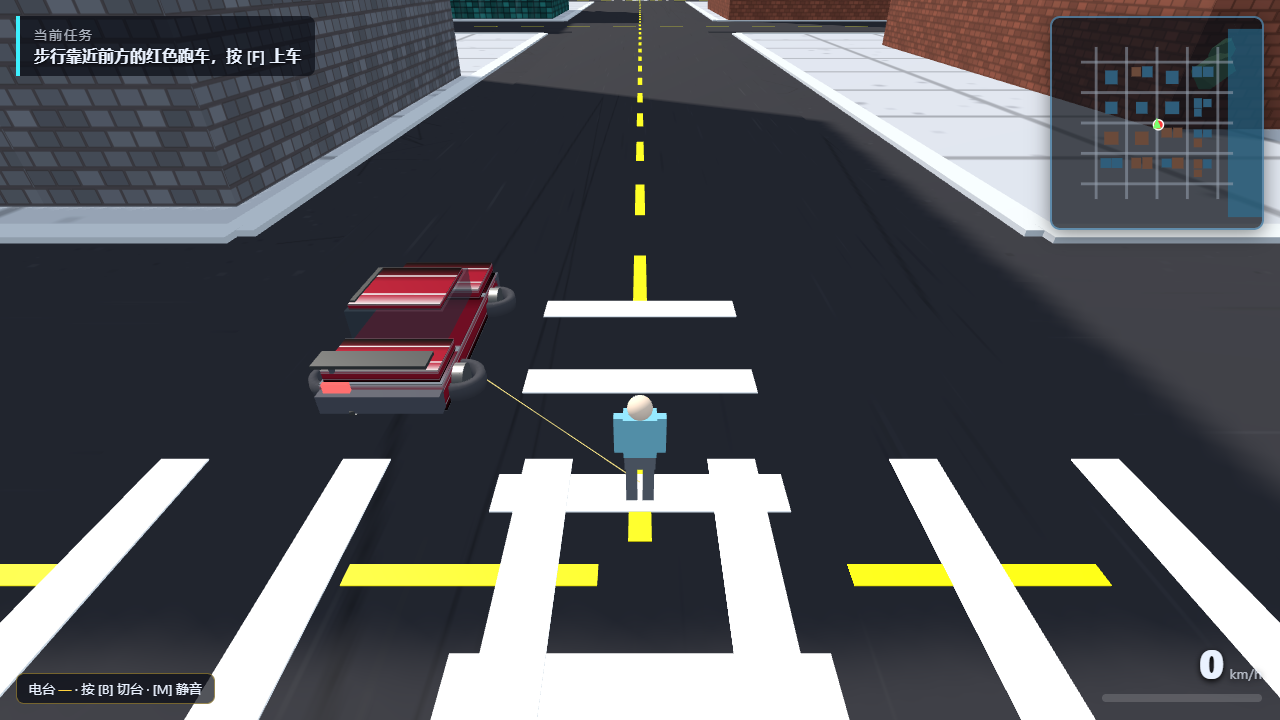
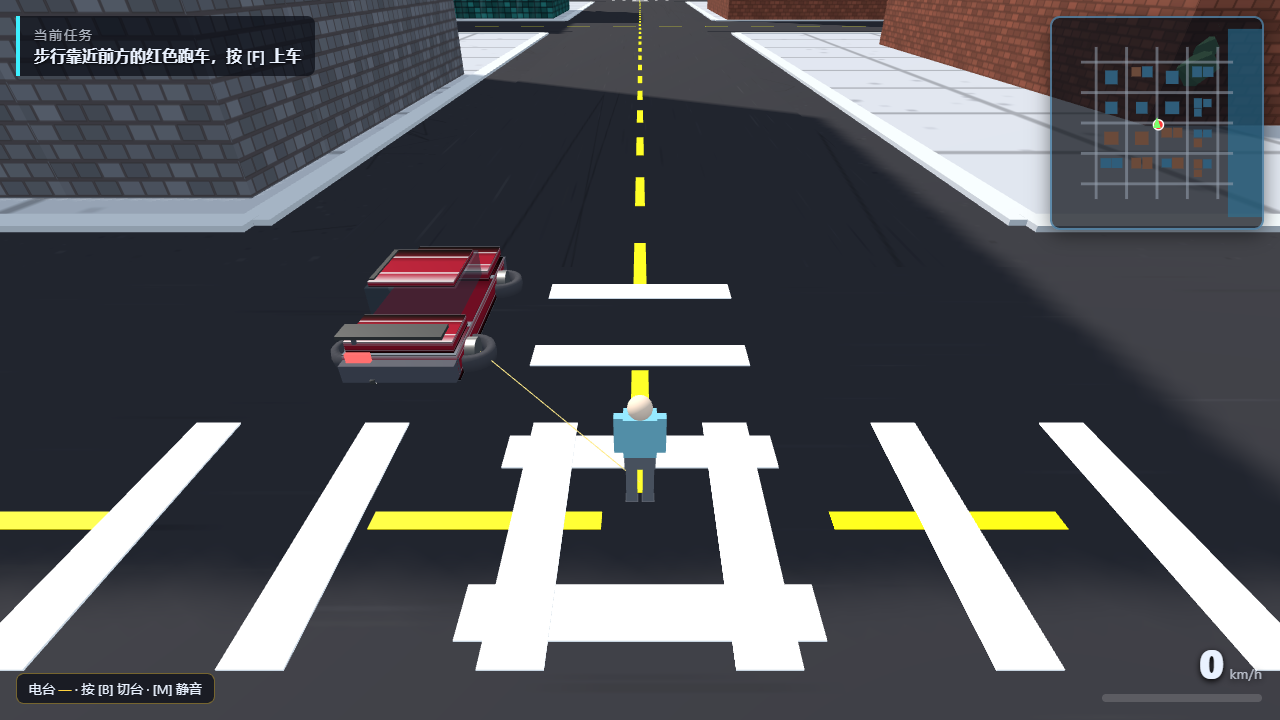
feat: 移动端触控支持（虚拟摇杆/按钮/视角拖拽 + 手机降分辨率）

diff --git a/src/input.js b/src/input.js
@@ -1,8 +1,9 @@
 /* ============================================================
-   Input : 键盘 + 鼠标（拖拽自由看视角，带衰减回正）
+   Input : 键盘 + 鼠标 + 触摸（移动端虚拟摇杆 / 按钮 / 视角拖拽）
    ============================================================ */
 window.Input = (function () {
   const keys = {};
+  const touchState = {};      // 触摸模拟按键（摇杆 / 按钮）
   const edge = {};            // 单次触发
   const mouse = { down: false, dx: 0, dy: 0, x: 0, y: 0 };
 
@@ -14,22 +15,77 @@ window.Input = (function () {
   });
   window.addEventListener('keyup', (e) => { keys[e.code] = false; });
 
-  const canvas = () => document.getElementById('game');
   window.addEventListener('mousedown', (e) => { mouse.down = true; mouse.x = e.clientX; mouse.y = e.clientY; });
   window.addEventListener('mouseup', () => { mouse.down = false; });
   window.addEventListener('mousemove', (e) => {
     if (mouse.down) { mouse.dx += e.clientX - mouse.x; mouse.dy += e.clientY - mouse.y; mouse.x = e.clientX; mouse.y = e.clientY; }
   });
-  // 触屏简易支持
-  window.addEventListener('touchstart', () => { mouse.down = true; }, { passive: true });
-  window.addEventListener('touchend', () => { mouse.down = false; });
+
+  // ============ 触摸 / 移动端控制 ============
+  const touch = { stickId: null, ox: 0, oy: 0, camId: null, cx: 0, cy: 0 };
+  const STICK_R = 56, STICK_DEAD = 14;
+  let stickBase = null, stickKnob = null;
+  function refreshStickUI(dx, dy) { if (stickKnob) stickKnob.style.transform = 'translate(' + dx + 'px,' + dy + 'px)'; }
+  function applyStick(x, y) {
+    let dx = x - touch.ox, dy = y - touch.oy;
+    const len = Math.hypot(dx, dy);
+    if (len > STICK_R) { dx = dx / len * STICK_R; dy = dy / len * STICK_R; }
+    refreshStickUI(dx, dy);
+    const s = touchState;
+    s.KeyW = s.ArrowUp = dy < -STICK_DEAD;
+    s.KeyS = s.ArrowDown = dy > STICK_DEAD;
+    s.KeyA = s.ArrowLeft = dx < -STICK_DEAD;
+    s.KeyD = s.ArrowRight = dx > STICK_DEAD;
+  }
+  function clearStick() {
+    touch.stickId = null;
+    const s = touchState;
+    s.KeyW = s.ArrowUp = s.KeyS = s.ArrowDown = s.KeyA = s.ArrowLeft = s.KeyD = s.ArrowRight = false;
+    refreshStickUI(0, 0);
+    if (stickBase) stickBase.style.display = 'none';
+  }
+  function touchPress(code) { edge[code] = true; }        // 一次性触发（被 hit 消费）
+  function touchHold(code, on) { touchState[code] = on; } // 持续按住（被 isDown 读取）
+
+  window.addEventListener('touchstart', (e) => {
+    for (const t of e.changedTouches) {
+      if (t.target && t.target.closest && t.target.closest('.touch-ui')) continue;
+      if (t.clientX < innerWidth * 0.5 && touch.stickId === null) {
+        touch.stickId = t.identifier; touch.ox = t.clientX; touch.oy = t.clientY;
+        stickBase = document.getElementById('stick-base');
+        if (stickBase) { stickBase.style.left = t.clientX + 'px'; stickBase.style.top = t.clientY + 'px'; stickBase.style.display = 'block'; stickKnob = document.getElementById('stick-knob'); }
+        applyStick(t.clientX, t.clientY);
+      } else if (t.clientX >= innerWidth * 0.5 && touch.camId === null) {
+        touch.camId = t.identifier; touch.cx = t.clientX; touch.cy = t.clientY; mouse.down = true;
+      }
+    }
+  }, { passive: false });
+  window.addEventListener('touchmove', (e) => {
+    for (const t of e.changedTouches) {
+      if (t.identifier === touch.stickId) applyStick(t.clientX, t.clientY);
+      else if (t.identifier === touch.camId) {
+        mouse.dx += t.clientX - touch.cx; mouse.dy += t.clientY - touch.cy;
+        touch.cx = t.clientX; touch.cy = t.clientY;
+      }
+    }
+    if (e.cancelable) e.preventDefault();
+  }, { passive: false });
+  function endTouch(e) {
+    for (const t of e.changedTouches) {
+      if (t.identifier === touch.stickId) clearStick();
+      if (t.identifier === touch.camId) { touch.camId = null; mouse.down = false; }
+    }
+  }
+  window.addEventListener('touchend', endTouch);
+  window.addEventListener('touchcancel', endTouch);
 
   return {
     keys,
-    isDown: (c) => !!keys[c],
+    isDown: (c) => !!keys[c] || !!touchState[c],
     // 消费一次性按键
     hit: (c) => { if (edge[c]) { edge[c] = false; return true; } return false; },
     mouse,
+    touchPress, touchHold,
     // 每帧末尾清空鼠标位移增量
     endFrame() { mouse.dx = 0; mouse.dy = 0; for (const k in edge) edge[k] = false; }
   };

diff --git a/index.html b/index.html
@@ -2,10 +2,11 @@
 <html lang="zh-CN">
 <head>
   <meta charset="UTF-8" />
-  <meta name="viewport" content="width=device-width, initial-scale=1.0, user-scalable=no" />
+  <meta name="viewport" content="width=device-width, initial-scale=1.0, maximum-scale=1.0, user-scalable=no, viewport-fit=cover" />
   <title>滨湾市 · Binhai City</title>
   <style>
     html, body { margin: 0; padding: 0; overflow: hidden; background: #060a12; height: 100%; }
+    body { touch-action: none; }
     #game { display: block; position: fixed; inset: 0; }
     #loading { position: fixed; inset: 0; background: #060a12; display: flex; align-items: center; justify-content: center; flex-direction: column; color: #cfe6ff; z-index: 50; font-family: system-ui, Arial; }
     #loading h1 { font-size: 34px; letter-spacing: 6px; color: #3df0ff; margin: 0 0 6px; }
@@ -13,6 +14,27 @@
     #loading .bar { width: 240px; height: 6px; background: #1a2433; border-radius: 3px; margin-top: 16px; overflow: hidden; }
     #loading .bar > i { display: block; height: 100%; width: 0; background: linear-gradient(90deg, #3df0ff, #ffd23f); transition: width .2s; }
     #fallback { position: fixed; inset: 0; display: none; align-items: center; justify-content: center; color: #ffd; background: #111; font-family: system-ui; text-align: center; padding: 30px; z-index: 99; }
+
+    /* 启动层 */
+    #start { position: fixed; inset: 0; z-index: 60; display: flex; flex-direction: column; align-items: center; justify-content: center; color: #cfe6ff; background: rgba(6,10,18,.82); font-family: system-ui, Arial; text-align: center; }
+    #start h1 { font-size: 40px; letter-spacing: 8px; color: #3df0ff; margin: 0 0 8px; }
+    #start p { opacity: .75; margin: 0 0 22px; }
+    #start .btn { padding: 14px 30px; border-radius: 30px; background: linear-gradient(90deg,#3df0ff,#1f8aff); color: #04121f; font-weight: 700; font-size: 16px; box-shadow: 0 6px 24px rgba(61,240,255,.35); }
+    #start .btn:active { transform: scale(.96); }
+
+    /* 移动端触控 UI */
+    #touch-ui { position: fixed; inset: 0; z-index: 40; display: none; pointer-events: none; }
+    #touch-ui.on { display: block; }
+    .tbtn { position: fixed; width: 60px; height: 60px; border-radius: 50%; display: flex; align-items: center; justify-content: center; text-align: center; font: 600 12px/1.15 system-ui, Arial; color: #dff; background: rgba(18,30,46,.55); border: 2px solid rgba(120,200,255,.45); user-select: none; -webkit-user-select: none; pointer-events: auto; backdrop-filter: blur(2px); -webkit-tap-highlight-color: transparent; }
+    .tbtn:active { background: rgba(61,240,255,.45); }
+    #btn-f { right: 22px; bottom: 26px; width: 78px; height: 78px; font-size: 14px; }
+    #btn-space { right: 110px; bottom: 34px; }
+    #btn-b { right: 22px; top: 66px; }
+    #btn-tab { right: 92px; top: 66px; }
+    #btn-h { right: 162px; top: 66px; }
+    #btn-m { right: 232px; top: 66px; }
+    #stick-base { position: fixed; width: 120px; height: 120px; margin: -60px 0 0 -60px; border-radius: 50%; background: rgba(255,255,255,.06); border: 2px solid rgba(255,255,255,.22); display: none; z-index: 41; pointer-events: none; }
+    #stick-knob { position: absolute; left: 50%; top: 50%; width: 52px; height: 52px; margin: -26px 0 0 -26px; border-radius: 50%; background: rgba(61,240,255,.5); border: 2px solid rgba(255,255,255,.7); }
   </style>
 </head>
 <body>
@@ -24,8 +46,19 @@
   <div id="fallback">
     <div>
       <h2>无法启动 WebGL</h2>
-      <p>请使用支持 WebGL 的现代浏览器（Chrome / Edge / Firefox）打开本页面。</p>
+      <p>请使用支持 WebGL 的现代浏览器（Chrome / Edge / Firefox / Safari）打开本页面。</p>
     </div>
+  </div>
+
+  <!-- 移动端触控界面 -->
+  <div id="touch-ui">
+    <div id="stick-base"><div id="stick-knob"></div></div>
+    <div class="tbtn" id="btn-f" data-code="KeyF" data-mode="hit">上车<br>F</div>
+    <div class="tbtn" id="btn-space" data-code="Space" data-mode="hold">手刹</div>
+    <div class="tbtn" id="btn-b" data-code="KeyB" data-mode="hit">电台</div>
+    <div class="tbtn" id="btn-tab" data-code="Tab" data-mode="hit">昼夜</div>
+    <div class="tbtn" id="btn-h" data-code="KeyH" data-mode="hit">帮助</div>
+    <div class="tbtn" id="btn-m" data-code="KeyM" data-mode="hit">静音</div>
   </div>
 
   <!-- 本地化 three.js 全局构建 -->
@@ -51,6 +84,25 @@
           '<div><h2>three.min.js 未加载</h2><p>请确认 three.min.js 与本 index.html 在同一目录。</p></div>';
       }
     });
+
+    // 移动端触控 UI：仅在触摸设备显示，并绑定按钮
+    (function () {
+      const ui = document.getElementById('touch-ui');
+      if (!ui) return;
+      if (matchMedia('(pointer: coarse)').matches || 'ontouchstart' in window) ui.classList.add('on');
+      function bind(el) {
+        const code = el.dataset.code, mode = el.dataset.mode;
+        const down = (e) => { e.preventDefault(); e.stopPropagation(); if (mode === 'hold') Input.touchHold(code, true); else Input.touchPress(code); };
+        const up = (e) => { e.preventDefault(); e.stopPropagation(); if (mode === 'hold') Input.touchHold(code, false); };
+        el.addEventListener('touchstart', down, { passive: false });
+        el.addEventListener('touchend', up, { passive: false });
+        el.addEventListener('touchcancel', up, { passive: false });
+        el.addEventListener('mousedown', down);
+        el.addEventListener('mouseup', up);
+        el.addEventListener('mouseleave', up);
+      }
+      document.querySelectorAll('.tbtn').forEach(bind);
+    })();
   </script>
 </body>
 </html>

diff --git a/src/game.js b/src/game.js
@@ -26,7 +26,7 @@
   function init() {
     renderer = new THREE.WebGLRenderer({ antialias: true, powerPreference: 'high-performance' });
     renderer.setSize(innerWidth, innerHeight);
-    renderer.setPixelRatio(Math.min(2, devicePixelRatio));
+    renderer.setPixelRatio(Math.min(('ontouchstart' in window ? 1.5 : 2), devicePixelRatio));
     renderer.outputEncoding = THREE.sRGBEncoding;
     renderer.shadowMap.enabled = true; renderer.shadowMap.type = THREE.PCFSoftShadowMap;
     renderer.domElement.id = 'game';